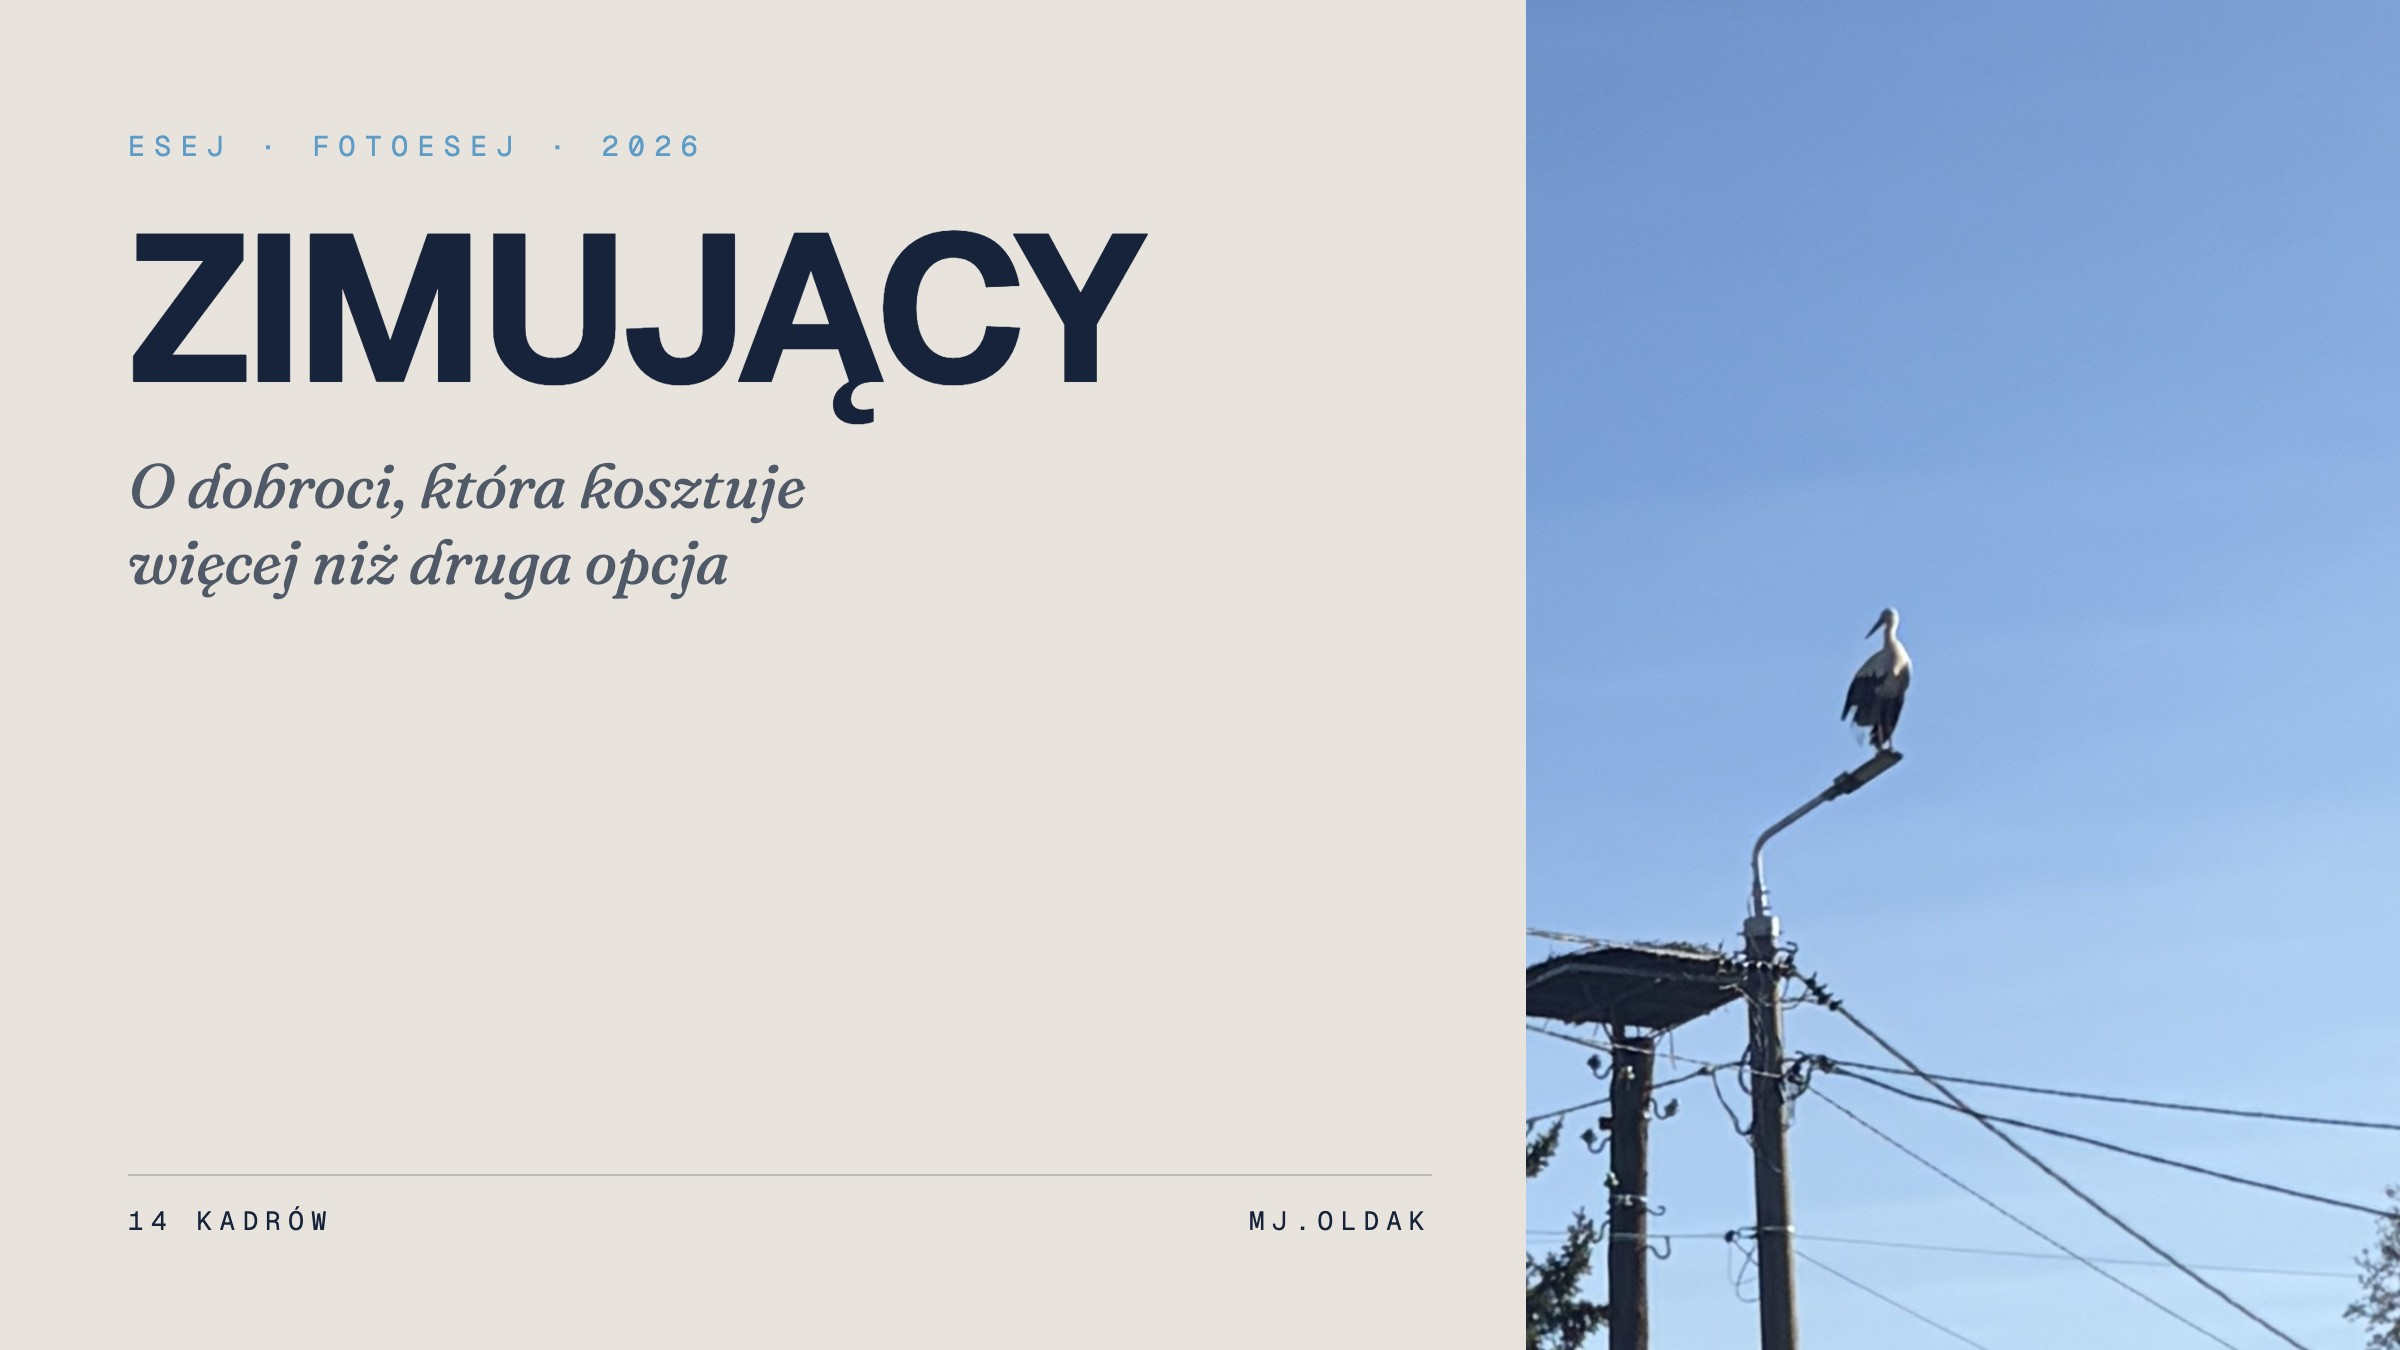
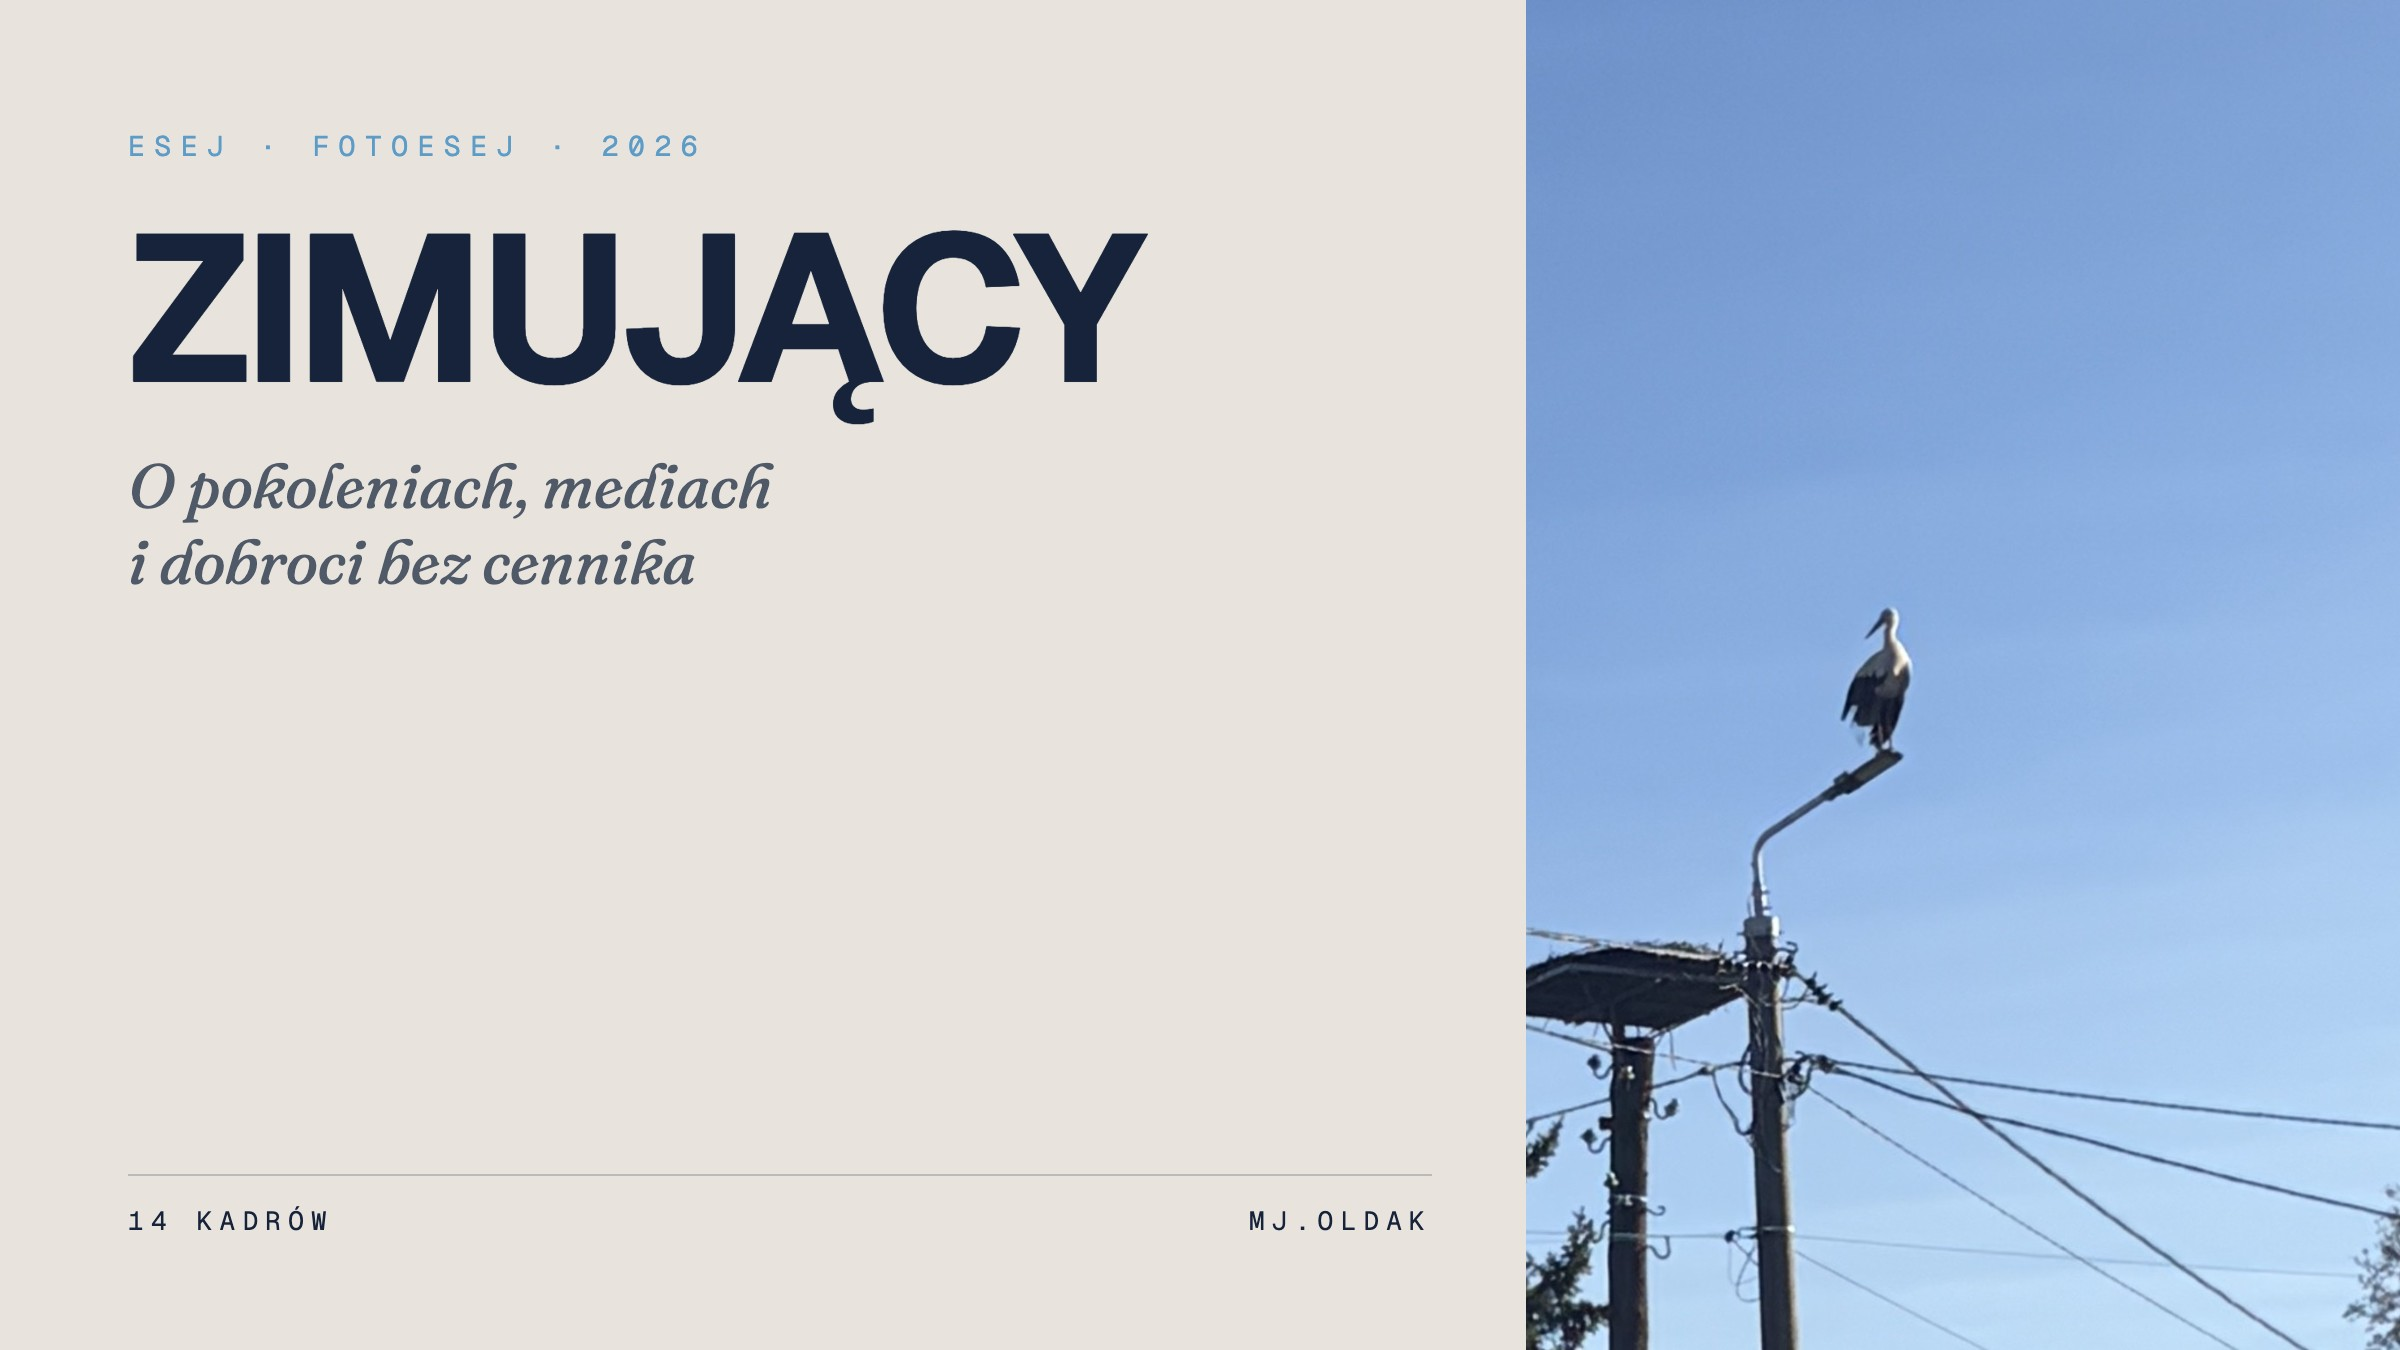
tytul: „Zimujący: o pokoleniach, mediach i dobroci bez cennika"
Podtytul zmieniony z „o dobroci, która kosztuje więcej niż druga opcja" —
„druga opcja" byla nieczytelna bez tekstu. Nowy obejmuje trzy bloki eseju
i bierze sformulowanie z sekcji VII („dobroć jest jedyną transakcją bez
cennika"). Okladka przegenerowana tym samym ukladem.

Changed region(s): [[0.0312, 0.3422, 0.3438, 0.4356]]

diff --git a/mj-oldak/src/content/articles/zimujacy.md b/mj-oldak/src/content/articles/zimujacy.md
@@ -1,5 +1,5 @@
 ---
-title: "Zimujący: o dobroci, która kosztuje więcej niż druga opcja"
+title: "Zimujący: o pokoleniach, mediach i dobroci bez cennika"
 slug: "zimujacy"
 excerpt: "Bocian, który nie odleciał. Roślina przelana z troski. Czternaście kadrów, które układają się w jedno zdanie o pokoleniach, mediach i dobroci, która nie ma cennika."
 publishedAt: 2026-11-05
